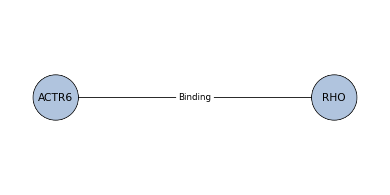
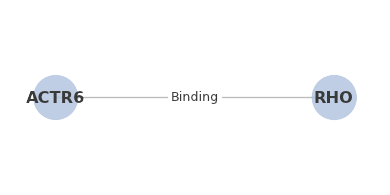
Cleaned up event diagrams

diff --git a/genetext/eventview/event.py b/genetext/eventview/event.py
@@ -309,29 +309,40 @@ class EventInfo:
     def plot(self, dpi=65):
         G = self.graph()
         
-        #fig = Figure()
-        #ax = fig.add_subplot(111)
+        # create the figure and axes
         fig = figure(figsize=(6, 3), dpi=dpi, frameon=False)
         ax = axes()
         plt.subplots_adjust(left=0, right=1, top=1, bottom=0)
         
-        pos = nx.spectral_layout(G) # node and edge positions
+        pos = nx.spectral_layout(G) # compute node and edge positions
         
+        # create lists of directed and undirected edges
         directed_edges = [e for e in G.edges(data=True) if e[2]['directed']]
         undirected_edges = [e for e in G.edges(data=True) if not e[2]['directed']]
         
-        node_size = [(300, 2000)[n[1]['gene']] for n in G.nodes(data=True)]
-        node_color = [('purple', 'lightsteelblue')[n[1]['gene']] for n in G.nodes(data=True)]
+        # create lists of node properties for plotting
+        node_size = [(100, 2000)[n[1]['gene']] for n in G.nodes(data=True)]
+        node_color = [('mediumpurple', 'lightsteelblue')[n[1]['gene']] for n in G.nodes(data=True)]
         node_labels = dict([ (n[0], n[1]['label']) for n in G.nodes(data=True) ])
         
-        edge_labels = dict([ ((e[0], e[1]), e[2]['label']) for e in G.edges(data=True) ])
+        # create dictionary of edge labels
+        edge_labels = dict([ ((e[0], e[1]), e[2]['label'].replace('_','\n')) for e in G.edges(data=True) ])
         
+        # create an undirected version of the graph
         uG = G.to_undirected()
         
-        nx.draw(G, pos=pos, ax=ax, hold=True, edgelist=directed_edges, node_size=node_size, 
-            node_color=node_color, labels=node_labels)
-        nx.draw_networkx_edges(uG, pos=pos, ax=ax, hold=True, edgelist=undirected_edges)
-        nx.draw_networkx_edge_labels(G, pos=pos, ax=ax, edge_labels=edge_labels)
+        # draw the graph's nodes and directed edges
+        nx.draw(G, pos=pos, ax=ax, hold=True, edgelist=directed_edges, alpha=0.9,
+            node_size=node_size, node_color=node_color, linewidths=0, edge_color='#bbbbbb', width=2,
+            labels=node_labels, font_size=18, font_color='#383838', font_weight='bold')
+        
+        # draw the undirected edges (using the undirected version of the graph)
+        nx.draw_networkx_edges(uG, pos=pos, ax=ax, hold=True, 
+            edgelist=undirected_edges, edge_color='#bbbbbb', width=2)
+        
+        #draw edge labels
+        nx.draw_networkx_edge_labels(G, pos=pos, ax=ax, edge_labels=edge_labels, 
+            font_size=14, font_color='#383838',)
         
         canvas = FigureCanvas(fig)
         plt.close(fig)
